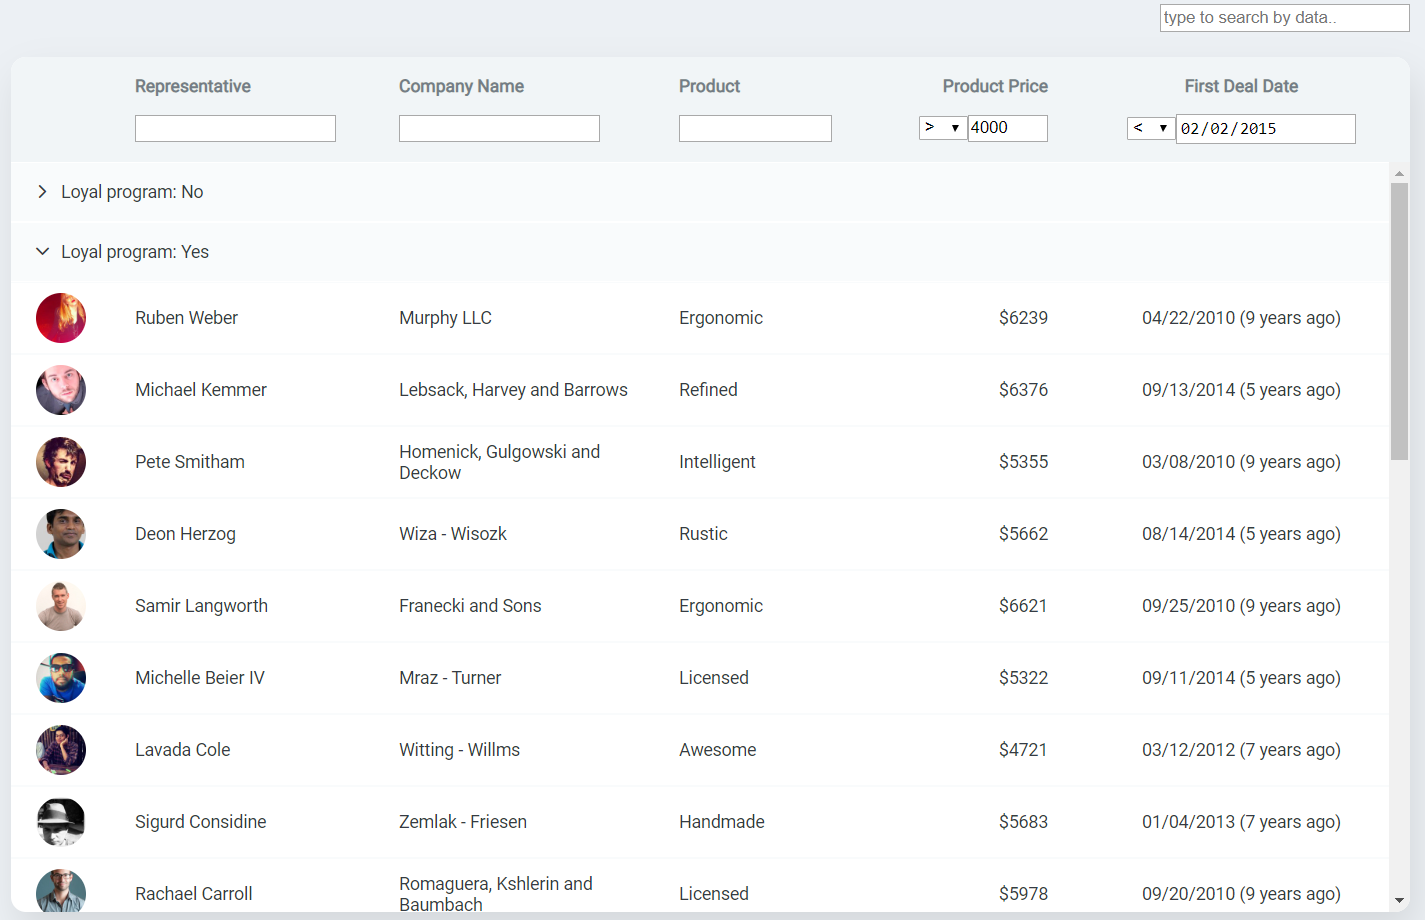
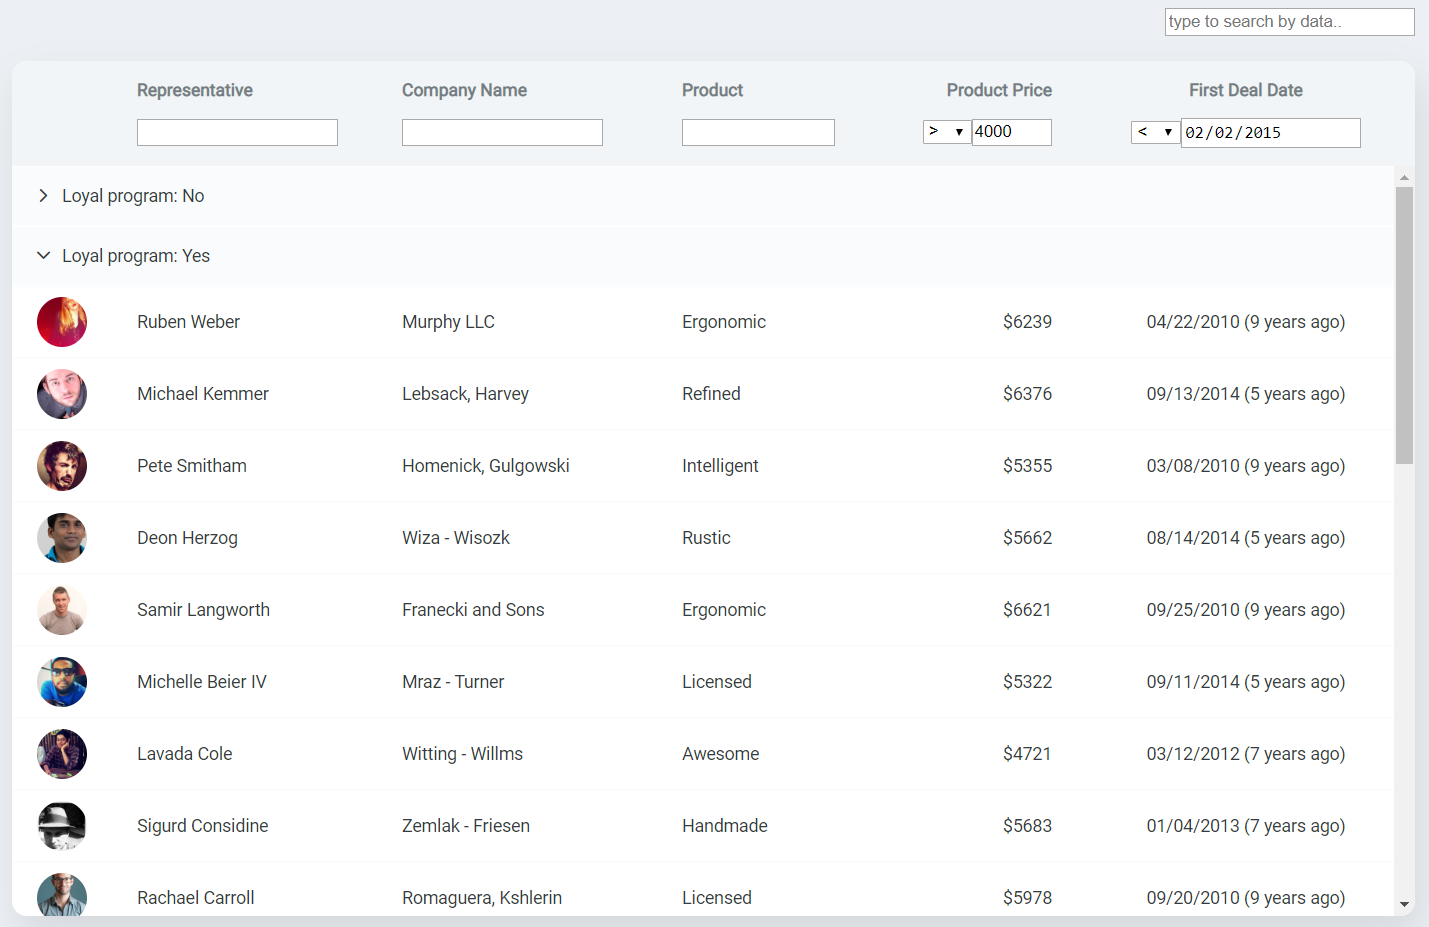
Update image & data & readme

diff --git a/src/Demos/OverviewDemo/data.ts b/src/Demos/OverviewDemo/data.ts
@@ -177,7 +177,7 @@ export default [
     },
     company: {
       hasLoyalProgram: true,
-      name: 'Windler, Conn and Fritsch',
+      name: 'Windler, Conn',
     },
     dealsHistory: [
       269499.84,
@@ -294,7 +294,7 @@ export default [
     },
     company: {
       hasLoyalProgram: true,
-      name: 'Lebsack, Harvey and Barrows',
+      name: 'Lebsack, Harvey',
     },
     dealsHistory: [
       80951.96,
@@ -679,7 +679,7 @@ export default [
     },
     company: {
       hasLoyalProgram: true,
-      name: 'Heidenreich, Lehner and Herzog',
+      name: 'Heidenreich, Lehner',
     },
     dealsHistory: [
       742884.29,
@@ -789,7 +789,7 @@ export default [
     },
     company: {
       hasLoyalProgram: true,
-      name: 'Homenick, Gulgowski and Deckow',
+      name: 'Homenick, Gulgowski',
     },
     dealsHistory: [
       663372.35,
@@ -835,7 +835,7 @@ export default [
     },
     company: {
       hasLoyalProgram: false,
-      name: 'Moore, Monahan and Steuber',
+      name: 'Moore, Monahan',
     },
     dealsHistory: [
       263584.98,
@@ -1801,7 +1801,7 @@ export default [
     },
     company: {
       hasLoyalProgram: true,
-      name: 'Romaguera, Kshlerin and Baumbach',
+      name: 'Romaguera, Kshlerin',
     },
     dealsHistory: [
       646033.06,

diff --git a/README.md b/README.md
@@ -6,7 +6,7 @@
 # Overview
 The customizable, extendable, lightweight and free React Table Component
 
-![Table](https://komarovalexander.github.io/ka-table/static/demos-screenshots/command-column.png)
+![Table](https://komarovalexander.github.io/ka-table/static/demos-screenshots/overview.png)
 [Demo link](https://komarovalexander.github.io/ka-table/#/overview)
 
 ## Installation
@@ -75,7 +75,7 @@ export default SortingDemo;
 [Demo link](https://komarovalexander.github.io/ka-table/#/sorting)
 
 ## Examples
-[Overview](https://komarovalexander.github.io/ka-table/#/command-column)
+[Overview](https://komarovalexander.github.io/ka-table/#/overview)
 
 [Command Column](https://komarovalexander.github.io/ka-table/#/command-column) - Functional columns which are not bound to data and used to add custom command to table
 
